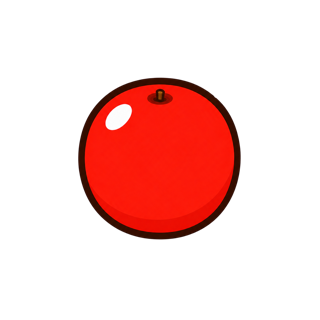
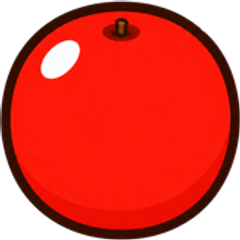
fix(web): 열매 크기가 눈에 보이는 크기와 어긋나던 것을 바로잡는다
에셋 320px 중 실제 열매는 163px이고 나머지는 투명 여백이었다.
size=22로 그려도 12px로 보여서 옆의 18px 아이콘보다 작았고, 여백만큼
차지한 자리가 flex 열을 밀어 라벨 줄까지 어긋났다.

sharp로 투명 여백만 잘라낸다. 그림은 한 픽셀도 안 바뀌고 캔버스만 줄어든다.
이제 size가 곧 지름이라 호출부가 보이는 크기를 그대로 적는다 —
히어로 54, 달력 14 (전에 박스 100·26이 실제로 그 크기였다).

diff --git a/apps/web/src/features/streak/ui/StreakFruit.tsx b/apps/web/src/features/streak/ui/StreakFruit.tsx
@@ -1,5 +1,6 @@
 // 스트릭 열매 — 하루 1개 완료가 열매 1개다. 헤더·히어로·달력이 같은 그림을 쓴다
-// 에셋은 피그마에서 내보낸 원본 그대로. 시안이 여백째 프레임에 담아 쓰므로 잘라내지 않는다
+// 에셋은 피그마 원본에서 투명 여백만 잘라낸 것 — 그림 자체는 그대로다.
+// 여백이 절반이라(320px 중 열매 163px) size와 눈에 보이는 크기가 두 배로 어긋났다. 이제 size가 곧 지름이다
 import Image from 'next/image';
 
 import fruitImage from '../assets/fruit.png';
@@ -14,6 +15,7 @@ const OPACITY: Record<FruitState, number> = {
 
 interface StreakFruitProps {
   state: FruitState;
+  // 눈에 보이는 열매의 지름
   size?: number;
   // 익은 열매가 말랑거리는 연출. 히어로에서만 켠다 — 달력 열매 서른 개가 같이 움직이면 어지럽다
   animated?: boolean;
@@ -23,7 +25,7 @@ interface StreakFruitProps {
 
 export const StreakFruit = ({
   state,
-  size = 26,
+  size = 14,
   animated = false,
   priority = false,
 }: StreakFruitProps) => (

diff --git a/apps/web/src/features/streak/ui/StreakDay.tsx b/apps/web/src/features/streak/ui/StreakDay.tsx
@@ -14,7 +14,7 @@ const LABEL_STYLE: Record<DayMark, string> = {
 };
 
 const DayMarkShape = ({ mark }: { mark: DayMark }) => {
-  if (mark === 'done') return <StreakFruit state="fresh" />;
+  if (mark === 'done') return <StreakFruit state="fresh" size={14} />;
   // 오늘은 아직 못 받은 자리 — 열매가 들어올 테두리만 그려 둔다
   if (mark === 'today')
     return <span className="size-7 rounded-full border-2 border-primary" />;

diff --git a/apps/web/src/features/streak/ui/StreakHero.tsx b/apps/web/src/features/streak/ui/StreakHero.tsx
@@ -22,7 +22,7 @@ export const StreakHero = ({
 
   return (
     <section className="flex flex-col items-center px-5 pt-4">
-      <StreakFruit state={state} size={100} animated priority />
+      <StreakFruit state={state} size={54} animated priority />
       <h2 className="mt-2 text-[32px] leading-tight font-black text-foreground">
         {title}
       </h2>
